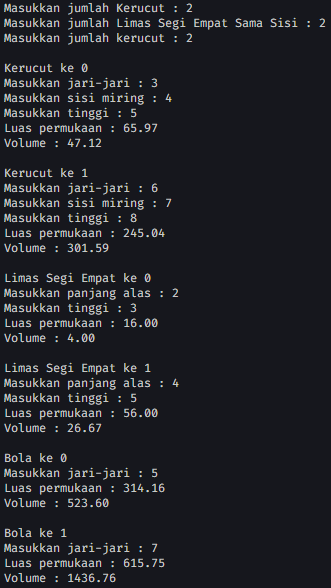
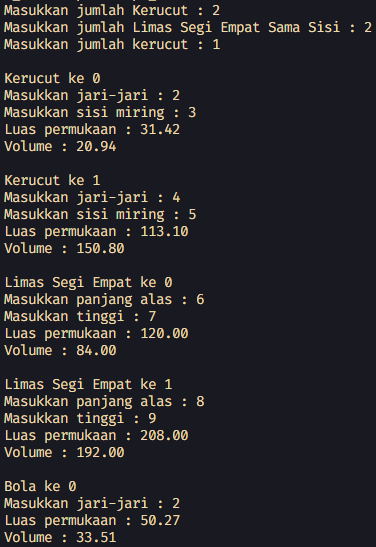
fix: latihan 1

diff --git a/Semester 2/ALSTRUD/Week 3/src/Latihan1Main.java b/Semester 2/ALSTRUD/Week 3/src/Latihan1Main.java
@@ -29,8 +29,6 @@ public class Latihan1Main {
                 System.out.print("Masukkan sisi miring : ");
                 kcArray[i].sisiMiring = sc.nextInt();
                 sc.nextLine();
-                System.out.print("Masukkan tinggi : ");
-                kcArray[i].tinggi = sc.nextInt();
 
                 System.out.printf("Luas permukaan : %.2f\n", kcArray[i].getLuasPermukaan());
                 System.out.printf("Volume : %.2f\n", kcArray[i].getVolume());

diff --git a/Semester 2/ALSTRUD/Week 3/src/Kerucut.java b/Semester 2/ALSTRUD/Week 3/src/Kerucut.java
@@ -1,6 +1,6 @@
 public class Kerucut {
 
-    public int jariJari, sisiMiring, tinggi;
+    public int jariJari, sisiMiring;
 
     public double getTinggi() {
         return (Math.pow(sisiMiring, 2) - Math.pow(jariJari, 2));
@@ -11,6 +11,6 @@ public class Kerucut {
     }
 
     public double getVolume() {
-        return Math.PI * Math.pow(jariJari, 2) * tinggi / 3;
+        return Math.PI * Math.pow(jariJari, 2) * getTinggi() / 3;
     }
 }

diff --git a/Semester 2/ALSTRUD/Week 3/README.md b/Semester 2/ALSTRUD/Week 3/README.md
@@ -337,7 +337,7 @@ public class ArrayBalok {
 ```java
 public class Kerucut {
 
-    public int jariJari, sisiMiring, tinggi;
+    public int jariJari, sisiMiring;
 
     public double getTinggi() {
         return (Math.pow(sisiMiring, 2) - Math.pow(jariJari, 2));
@@ -348,7 +348,7 @@ public class Kerucut {
     }
 
     public double getVolume() {
-        return Math.PI * Math.pow(jariJari, 2) * tinggi / 3;
+        return Math.PI * Math.pow(jariJari, 2) * getTinggi() / 3;
     }
 }
 ```
@@ -418,8 +418,6 @@ public class Latihan1Main {
                 System.out.print("Masukkan sisi miring : ");
                 kcArray[i].sisiMiring = sc.nextInt();
                 sc.nextLine();
-                System.out.print("Masukkan tinggi : ");
-                kcArray[i].tinggi = sc.nextInt();
 
                 System.out.printf("Luas permukaan : %.2f\n", kcArray[i].getLuasPermukaan());
                 System.out.printf("Volume : %.2f\n", kcArray[i].getVolume());
